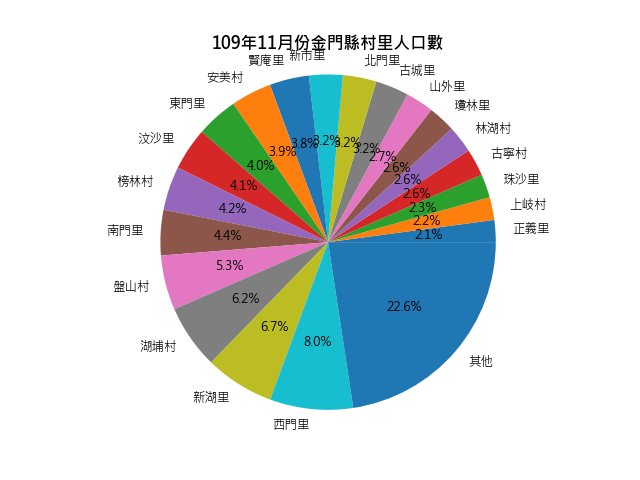
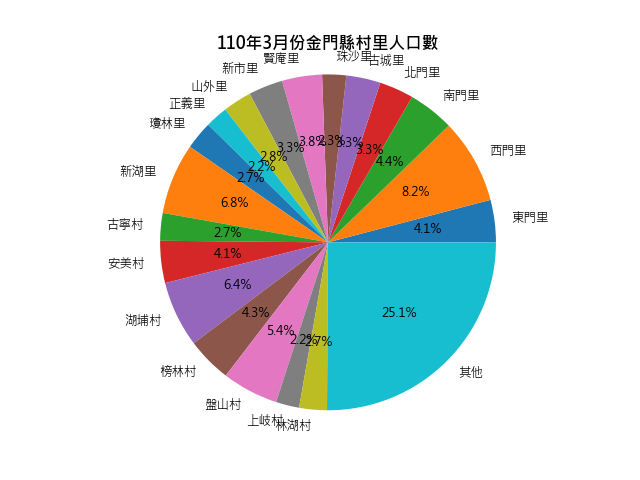
合併

diff --git a/p1.py b/p1.py
@@ -7,10 +7,7 @@ plt.rcParams['font.size'] = 9
 
 data = pd.read_csv('data.csv', encoding='big5') 
 
-data = data.sort_values(by='總人口數')
 people = {'總人口數': data['總人口數']} 
-
-print(data['總人口數'].sum())
 
 # 將 <2% 歸類到其他
 threshold = data[data['總人口數'] > data['總人口數'].sum()/100*2]
@@ -25,11 +22,34 @@ plt.pie( threshold['總人口數'] ,
     autopct='%1.1f%%'
     ) 
 
-plt.title("109年11月份金門縣村里人口數",
+plt.title("110年3月份金門縣村里人口數",
     fontdict = {'fontsize': 12,
     'fontweight' : 'bold',
     'horizontalalignment': 'center'}, x=0.5, y=1)
 plt.axis('equal')
-plt.savefig('Population.png') 
-plt.show()
+plt.savefig('Population.png')
 
+
+move = data[['遷出人數', '遷入人數']]
+move.index = data['村別數']
+move.plot(kind='bar', stacked=True)
+
+
+plt.title("110年3月份金門縣村里遷出入人口數")
+plt.savefig('PopulationDiff.png')
+
+
+gender = data[['出生人數', '死亡人數']]
+gender.index = data['村別數']
+gender.plot.bar(figsize=(20, 5))
+
+plt.title("110年3月份金門縣村里生死長條圖")
+plt.savefig('PopulationBD.png')
+
+
+gender = data[['男數', '女數']]
+gender.index = data['村別數']
+gender.plot.bar(subplots=True)
+
+plt.title("110年3月份金門縣村里男女長條圖")
+plt.savefig('PopulationGender.png')
